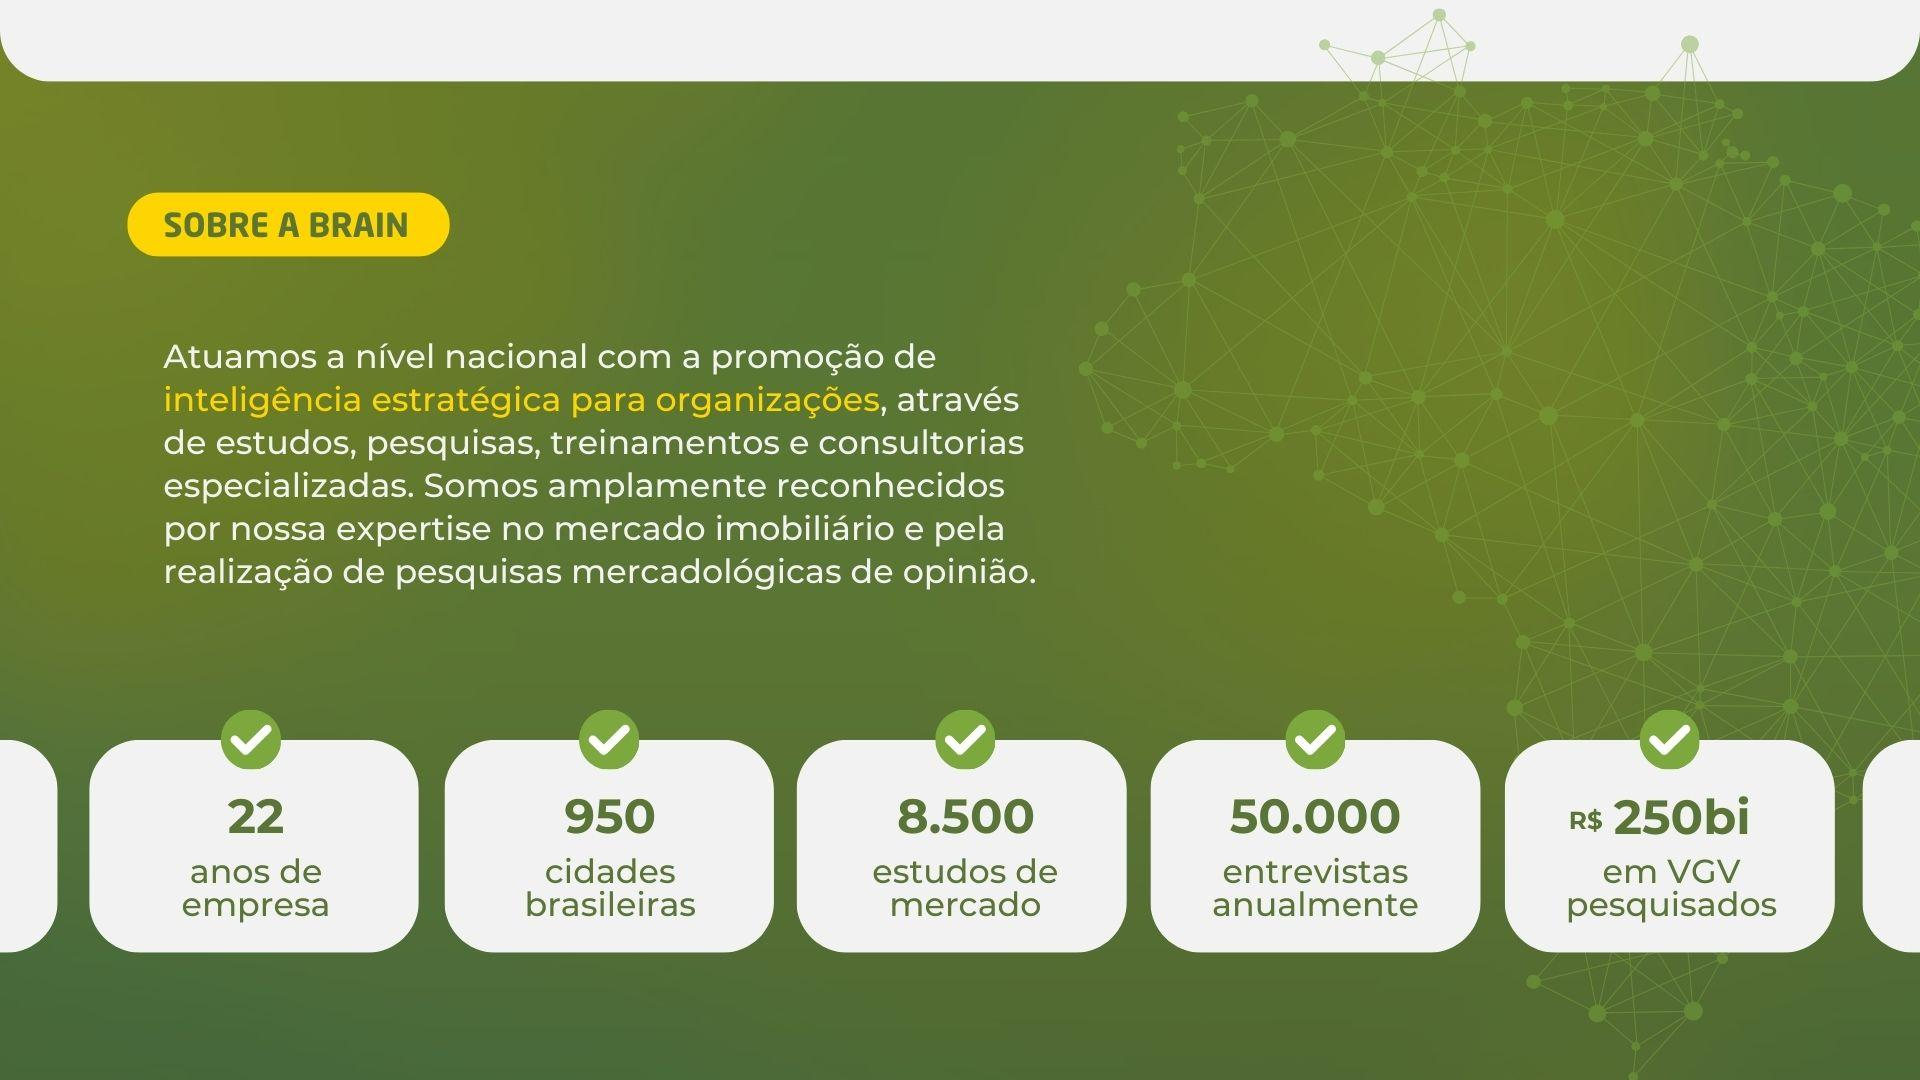
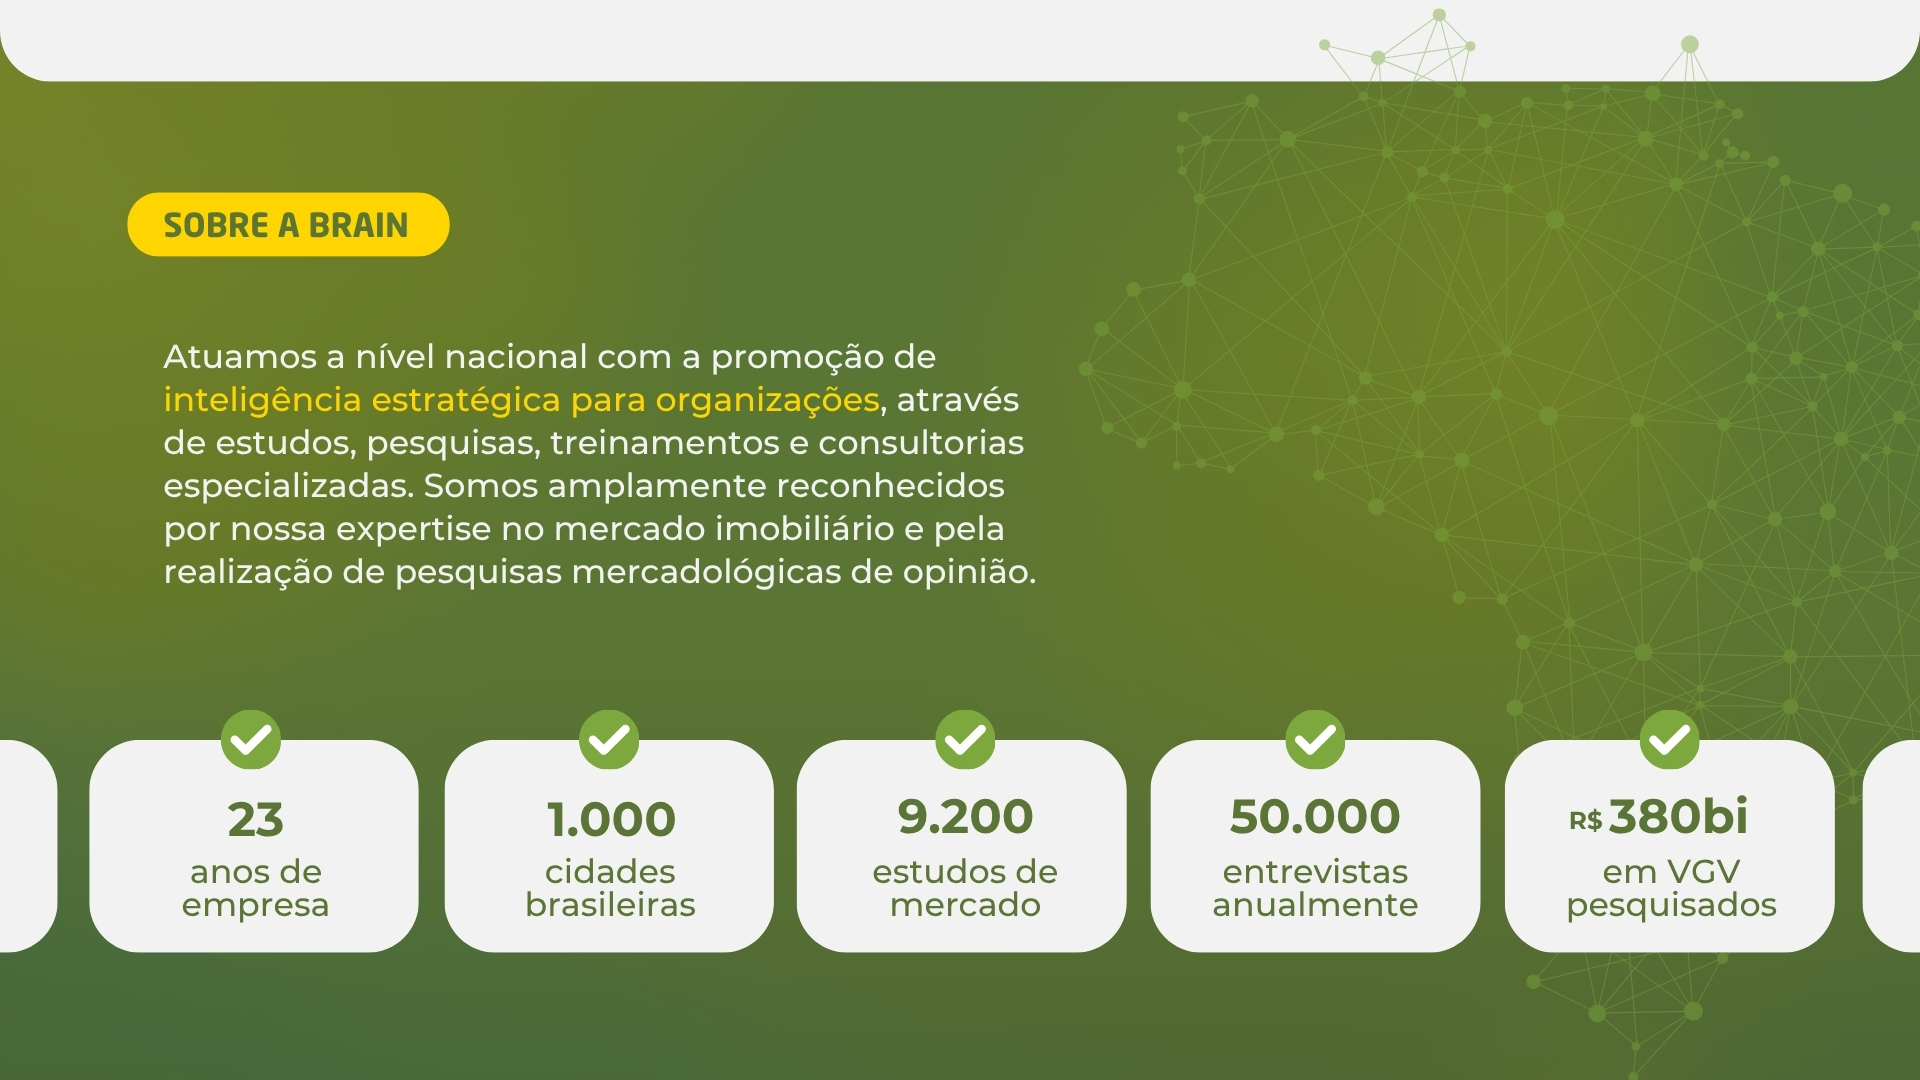
fix(fiergs): update institutional slide to 23 years

diff --git a/docs/projetos/LIVE_rebrain.md b/docs/projetos/LIVE_rebrain.md
@@ -1,9 +1,16 @@
+### 2026-10-02 — Atualização da arte institucional FIERGS — Codex
+- **O quê:** substituída a lâmina institucional “Sobre a Brain” com 22 anos pela composição recebida no `Slides-Institucionais-Brain-2026.pptx`, agora com 23 anos e indicadores correspondentes. O PPTX de origem permaneceu local e fora do commit.
+- **Comparação:** a página de portfólio mantém as mesmas três marcas e contatos; as lâminas novas de produto, coleta, indicadores/cases e documentário não foram inseridas nem substituídas sem equivalência visual direta confirmada. A automação invisível do PowerPoint foi bloqueada pelo Office instalado.
+- **Verificação:** asset confirmado em 1920 × 1080 e inspecionado visualmente; 274 testes da feature e `vite build` aprovados. Ainda é necessário gerar/revisar PDF/PPT autenticados de 2T2026 e 4T2025 para encerrar G4/G6.
+- **Evidência/commit:** `EVIDENCIA_G5_ARTE_INSTITUCIONAL_BRAIN_23_ANOS_2026-10-02.md`; commit local desta substituição a registrar. Nenhum push foi realizado nesta etapa.
+- **Pendências:** manter as lâminas restantes até receber exportação visual do PPTX candidato; regressões autenticadas e checagem remota continuam necessárias antes de publicação.
+
 ### 2026-10-02 — Panorama FIERGS: avisos, omissões e referências metodológicas — Codex
 - **Ambiente/funcionalidade:** `/rebrain/panorama-secovi-fiergs` — relatório final FIERGS 2T2026 com regressão 4T2025.
 - **O que:** manifesto remove as quatro segundas cópias editoriais; avisos estruturados vêm do modelo e alimentam painel/auditoria; séries sem estado publicável e estruturas tipológicas sem valores são omitidas com código e motivo. Zero continua observado; venda negativa e disponibilidade fora de 0–100% ficam visíveis e geram aviso. PDF/PPT exportado não inclui notas metodológicas longas. App agora tem Relatório, Metodologia, Glossário e Fórmulas com regras distintas para FIERGS e Secovi-SP.
 - **Verificação:** suíte da feature passou (33 arquivos, 274 testes após G4); `vite build` aprovado. TypeScript app ainda acusa fixtures incompletas preexistentes em `src/features/corretor/lib/audit/__tests__/structure-empty-sections.test.ts`; nenhum arquivo Corretor foi alterado. A verificação visual local montou a rota, mas não pôde gerar relatório sem autenticação.
 - **Commits locais:** `dcc6cc9`, `c5d2474`, `e76345c`; sem push.
-- **Pendências:** G4 permanece sem aceite visual até gerar e conferir PDF/PPT/CSV autenticados para 2T2026 e 4T2025. G5 segue pendente de confirmação/aprovação do material institucional do Diego; candidatos locais não foram incorporados. G6 não pode ser considerado concluído até os dois períodos serem gerados e revisados.
+- **Pendências (estado antes da atualização institucional abaixo):** G4 permanece sem aceite visual até gerar e conferir PDF/PPT/CSV autenticados para 2T2026 e 4T2025. G5 aguardava a arte institucional; atualização posterior registra a troca de 22 para 23 anos. G6 não pode ser considerado concluído até os dois períodos serem gerados e revisados.
 - **Arquivos:** plano/evidências finais em `docs/features/Relatorios Secovi_FIERGS/`; runtime em `src/features/panorama-secovi-fiergs/`.
 - **Monday:** [Panorama | Secovi e FIERGS](https://brain381753.monday.com/boards/18398428946/pulses/12517501135) — `12517501135`.
 

diff --git a/docs/features/Relatorios Secovi_FIERGS/EVIDENCIA_G5_ARTE_INSTITUCIONAL_BRAIN_23_ANOS_2026-10-02.md b/docs/features/Relatorios Secovi_FIERGS/EVIDENCIA_G5_ARTE_INSTITUCIONAL_BRAIN_23_ANOS_2026-10-02.md
@@ -1,0 +1,28 @@
+# Evidência G5 — arte institucional Brain 2026
+
+**Data:** 02/10/2026  
+**Estado:** substituição direta da lâmina “Sobre a Brain” aplicada; revisão do deck final exportado ainda depende de geração autenticada.
+
+## Fonte e alteração
+
+- Fonte recebida no workspace: `assets/Slides-Institucionais-Brain-2026.pptx`, apresentação 16:9 com sete lâminas.
+- A primeira lâmina é uma composição raster 1920 × 1080 que informa **23 anos**, 1.000 cidades brasileiras, 9.200 estudos de mercado, 50.000 entrevistas anuais e R$ 380 bi em VGV pesquisados.
+- O asset `src/features/panorama-secovi-fiergs/assets/fiergs/slide-04-institutional.jpg`, que era a página “Sobre a Brain” com 22 anos, foi substituído pela composição da primeira lâmina do novo PPTX. A renderização local do asset foi inspecionada visualmente e confirma 23 anos.
+- O PPTX fonte permanece no workspace como arquivo local não versionado; o commit contém apenas o asset que a aplicação usa e esta evidência.
+
+## Conferência das demais lâminas
+
+- A lâmina 2 do novo PPTX traz as mesmas três marcas e os mesmos telefones que o atual slide institucional 3. O texto extraído confirma equivalência de conteúdo; não foi identificada atualização numérica nessa página.
+- As lâminas 3–6 apresentam material de produto GeoBrain, processo de coleta, indicadores institucionais e cases; não são substitutas diretas das páginas de créditos/equipe do relatório FIERGS.
+- A lâmina 7 aborda o documentário que também aparece no material institucional atual. A inspeção XML/textual encontrou o mesmo tema e depoimentos, mas o fundo é vetorial editável e não foi possível renderizar o PowerPoint completo em modo headless: o Office instalado recusou automação invisível (`Application.Visible = false`). Por isso não afirmo equivalência visual nem substituo páginas adicionais sem uma exportação visual aprovada.
+- Nenhuma lâmina institucional nova foi acrescentada ao estudo além da troca direta da página de 22 para 23 anos; isso evita alterar a narrativa/tamanho do relatório com páginas de apresentação comercial sem solicitação específica.
+
+## Limite de homologação
+
+A alteração do asset foi feita, mas PDF/PPT autenticados de FIERGS 2T2026 e 4T2025 ainda precisam ser gerados e revisados para confirmar a página incorporada em cada exportação. Esta evidência não substitui a conferência final dos artefatos nem declara G4/G6 aprovados.
+
+## Validação do código após a troca
+
+- `npx.cmd vitest run src/features/panorama-secovi-fiergs`: **33 arquivos, 274 testes aprovados**.
+- `npx.cmd vite build`: **aprovado**. Avisos conhecidos: Browserslist antiga, pacote XLSX compartilhado entre imports estáticos/dinâmicos e chunks maiores que 500 kB.
+- PDF/PPT de regressão não foram gerados nesta sessão por falta de sessão autenticada no app.

diff --git a/docs/features/Relatorios Secovi_FIERGS/EVIDENCIA_G4_EXPORTACAO_SEM_NOTAS_E_DADOS_VAZIOS_FIERGS_2026-10-02.md b/docs/features/Relatorios Secovi_FIERGS/EVIDENCIA_G4_EXPORTACAO_SEM_NOTAS_E_DADOS_VAZIOS_FIERGS_2026-10-02.md
@@ -14,7 +14,7 @@
 ## Evidências de execução
 
 - `npx.cmd vitest run src/features/panorama-secovi-fiergs`: **33 arquivos, 274 testes aprovados**.
-- `npx.cmd vite build`: havia passado em execução anterior à última rodada de refinamentos. A repetição final nesta sessão foi bloqueada antes da compilação pelo ambiente (`esbuild`: acesso negado ao diretório `../../../..` e impossibilidade de resolver `vite.config.ts`); não atribuir esse resultado ao código sem nova execução em ambiente liberado.
+- `npx.cmd vite build`: **aprovado** em execução autorizada após a troca do asset institucional; permanecem avisos de Browserslist antiga, dependência XLSX compartilhada entre imports e chunks grandes.
 - ESLint focado nos cinco arquivos alterados: zero erros; quatro avisos `react-refresh/only-export-components` já associados às exportações utilitárias em `MarketSlides.tsx`.
 - `npx.cmd tsc --noEmit -p tsconfig.app.json`: falha apenas em fixtures preexistentes de `src/features/corretor/lib/audit/__tests__/structure-empty-sections.test.ts` (campos obrigatórios ausentes). A feature FIERGS não aparece nos erros e nenhum arquivo de Corretor foi modificado.
 - Playwright abriu a rota da aplicação, mas o ambiente local não estava autenticado e não permitiu gerar o relatório. **Não foram gerados nesta rodada PDF, PPT ou CSV atualizados para os dois períodos.** Os artefatos em `.tmp` são de execução anterior e não servem para aprovação visual desta implementação.

diff --git a/docs/features/Relatorios Secovi_FIERGS/RESUMO_AJUSTES_POS_VALIDACAO_JULIANA_FIERGS_2T2026.md b/docs/features/Relatorios Secovi_FIERGS/RESUMO_AJUSTES_POS_VALIDACAO_JULIANA_FIERGS_2T2026.md
@@ -444,3 +444,7 @@ O plano `PLAN_HOMOLOGACAO_FINAL_EDITORIAL_METODOLOGIA_FIERGS_2T2026_2026-10-02.m
 As abas Relatório, Metodologia, Glossário e Fórmulas estão implementadas, com fórmulas e políticas por entidade. Exportação PDF/PPT oculta as notas explicativas; avisos de cobertura ficam no app e na auditoria. A arte institucional permanece pendente até confirmação do Diego.
 
 **Estado de homologação:** evidências G0–G3 registradas; G4 está sob verificação visual e G6 ainda depende da geração autenticada dos PDFs/PPTs e CSVs FIERGS 2T2026 e 4T2025. O navegador local não tinha sessão autenticada, portanto os relatórios atualizados ainda não foram gerados nem aprovados visualmente. Não declarar homologação final. Commits locais desta rodada: `dcc6cc9`, `c5d2474`, `e76345c`; nenhum push.
+
+### Complemento — atualização da arte institucional
+
+Em 02/10/2026, a página “Sobre a Brain” do estudo FIERGS foi substituída pela lâmina correspondente de `Slides-Institucionais-Brain-2026.pptx`: 23 anos de empresa, 1.000 cidades, 9.200 estudos, 50.000 entrevistas anuais e R$ 380 bi em VGV pesquisados. A nova imagem foi conferida em 1920 × 1080. As demais páginas não foram trocadas por não haver uma substituição visual direta confirmada; o deck candidato permanece local e não versionado. Gerar novamente os PDFs/PPTs de 2T2026 e 4T2025 para conferir a incorporação. Evidência em `EVIDENCIA_G5_ARTE_INSTITUCIONAL_BRAIN_23_ANOS_2026-10-02.md`.
